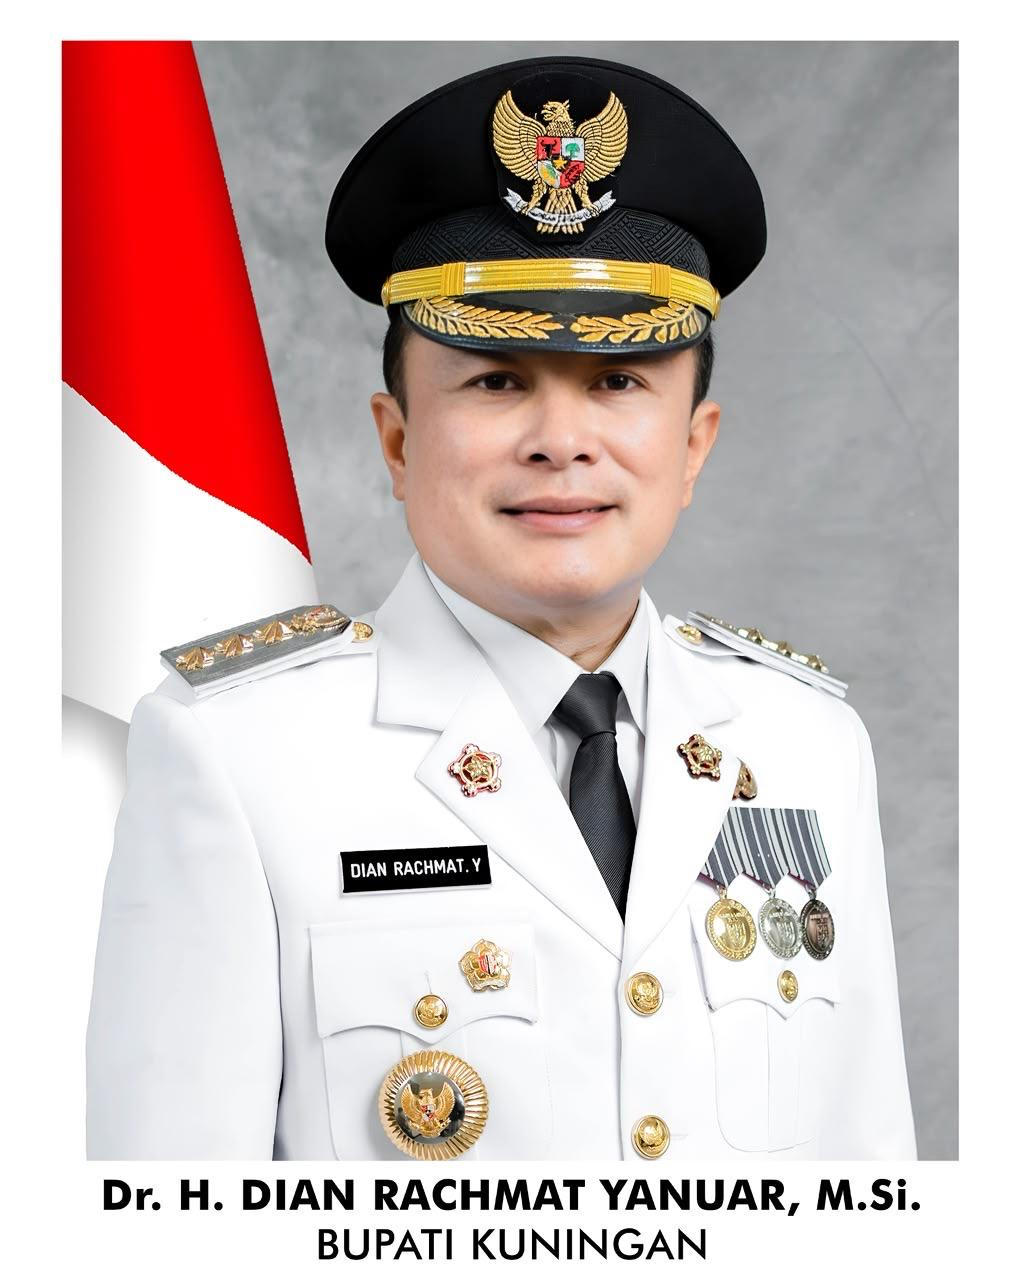
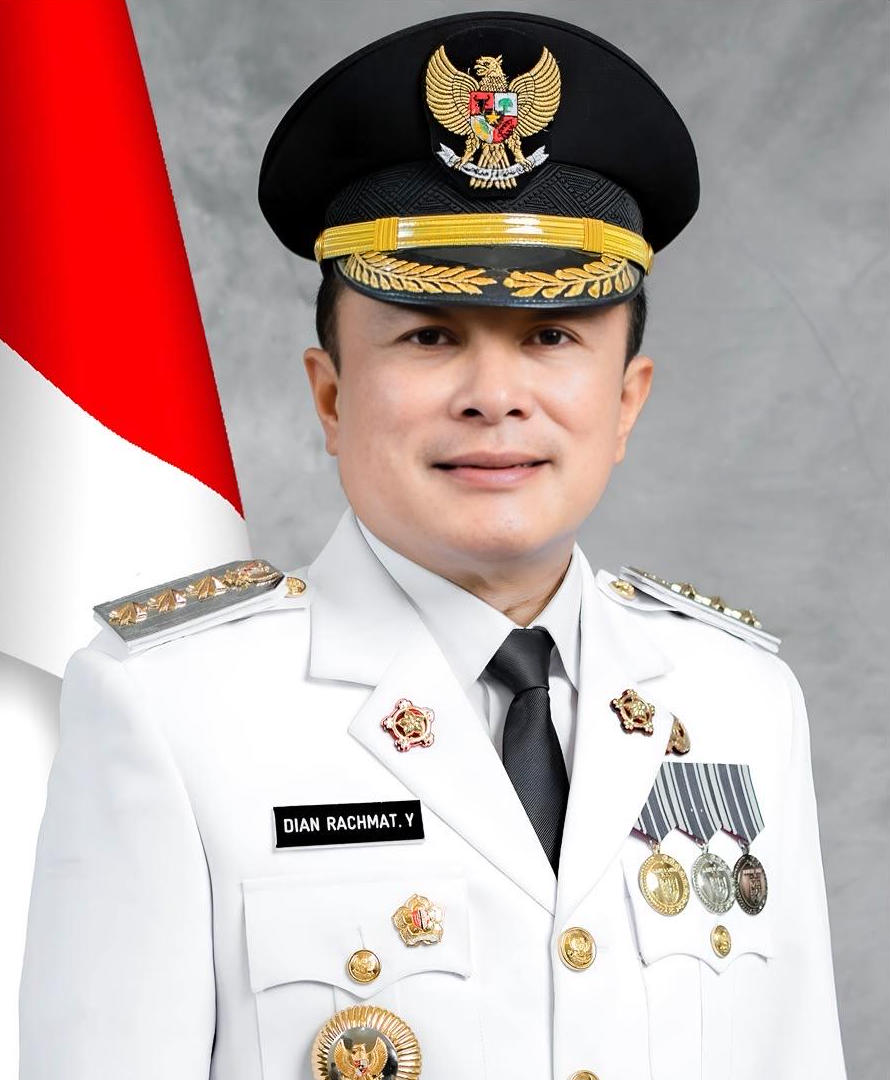
perbaikan foto pejabat

diff --git a/resources/views/activities/index.blade.php b/resources/views/activities/index.blade.php
@@ -27,7 +27,7 @@
                     $quickLeaders = [
                         ['id' => 'Bupati', 'label' => 'Bupati', 'image' => asset('images/bupati.jpeg'), 'icon' => ''],
                         ['id' => 'Wakil Bupati', 'label' => 'Wakil Bupati', 'image' => asset('images/wabup.jpeg'), 'icon' => ''],
-                        ['id' => 'Sekda', 'label' => 'Sekda', 'icon' => '<path stroke-linecap="round" stroke-linejoin="round" stroke-width="1.5" d="M21 13.255A23.931 23.931 0 0112 15c-3.183 0-6.22-.62-9-1.745M16 6V4a2 2 0 00-2-2h-4a2 2 0 00-2 2v2m4 6h.01M5 20h14a2 2 0 002-2V8a2 2 0 00-2-2H5a2 2 0 00-2 2v10a2 2 0 002 2z" />']
+                        ['id' => 'Sekda', 'label' => 'Sekda', 'image' => asset('images/sekda.jpeg'), 'icon' => '<path stroke-linecap="round" stroke-linejoin="round" stroke-width="1.5" d="M21 13.255A23.931 23.931 0 0112 15c-3.183 0-6.22-.62-9-1.745M16 6V4a2 2 0 00-2-2h-4a2 2 0 00-2 2v2m4 6h.01M5 20h14a2 2 0 002-2V8a2 2 0 00-2-2H5a2 2 0 00-2 2v10a2 2 0 002 2z" />']
                     ];
                     $activeLeader = collect($quickLeaders)->firstWhere('id', $leaderFilter);
                 @endphp

diff --git a/resources/views/activities/select-leader.blade.php b/resources/views/activities/select-leader.blade.php
@@ -18,7 +18,7 @@
                     $quickLeaders = [
                         ['id' => 'Bupati', 'label' => 'Bupati', 'image' => asset('images/bupati.jpeg'), 'icon' => ''],
                         ['id' => 'Wakil Bupati', 'label' => 'Wakil Bupati', 'image' => asset('images/wabup.jpeg'), 'icon' => ''],
-                        ['id' => 'Sekda', 'label' => 'Sekda', 'icon' => '<path stroke-linecap="round" stroke-linejoin="round" stroke-width="1.5" d="M21 13.255A23.931 23.931 0 0112 15c-3.183 0-6.22-.62-9-1.745M16 6V4a2 2 0 00-2-2h-4a2 2 0 00-2 2v2m4 6h.01M5 20h14a2 2 0 002-2V8a2 2 0 00-2-2H5a2 2 0 00-2 2v10a2 2 0 002 2z" />']
+                        ['id' => 'Sekda', 'label' => 'Sekda', 'image' => asset('images/sekda.jpeg'), 'icon' => '<path stroke-linecap="round" stroke-linejoin="round" stroke-width="1.5" d="M21 13.255A23.931 23.931 0 0112 15c-3.183 0-6.22-.62-9-1.745M16 6V4a2 2 0 00-2-2h-4a2 2 0 00-2 2v2m4 6h.01M5 20h14a2 2 0 002-2V8a2 2 0 00-2-2H5a2 2 0 00-2 2v10a2 2 0 002 2z" />']
                     ];
                 @endphp
                 
